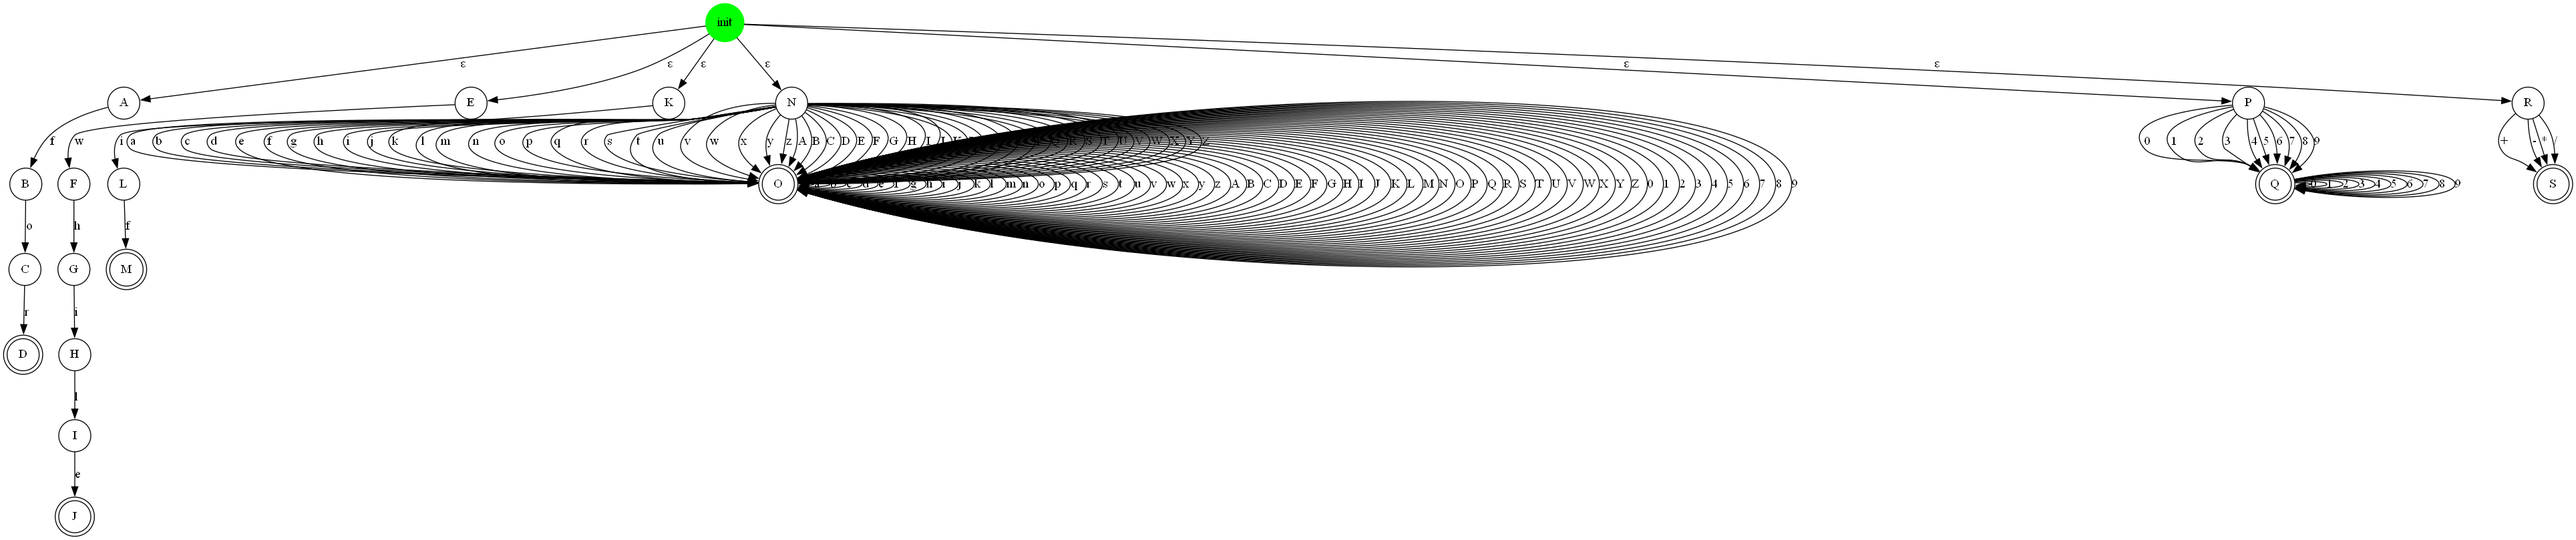
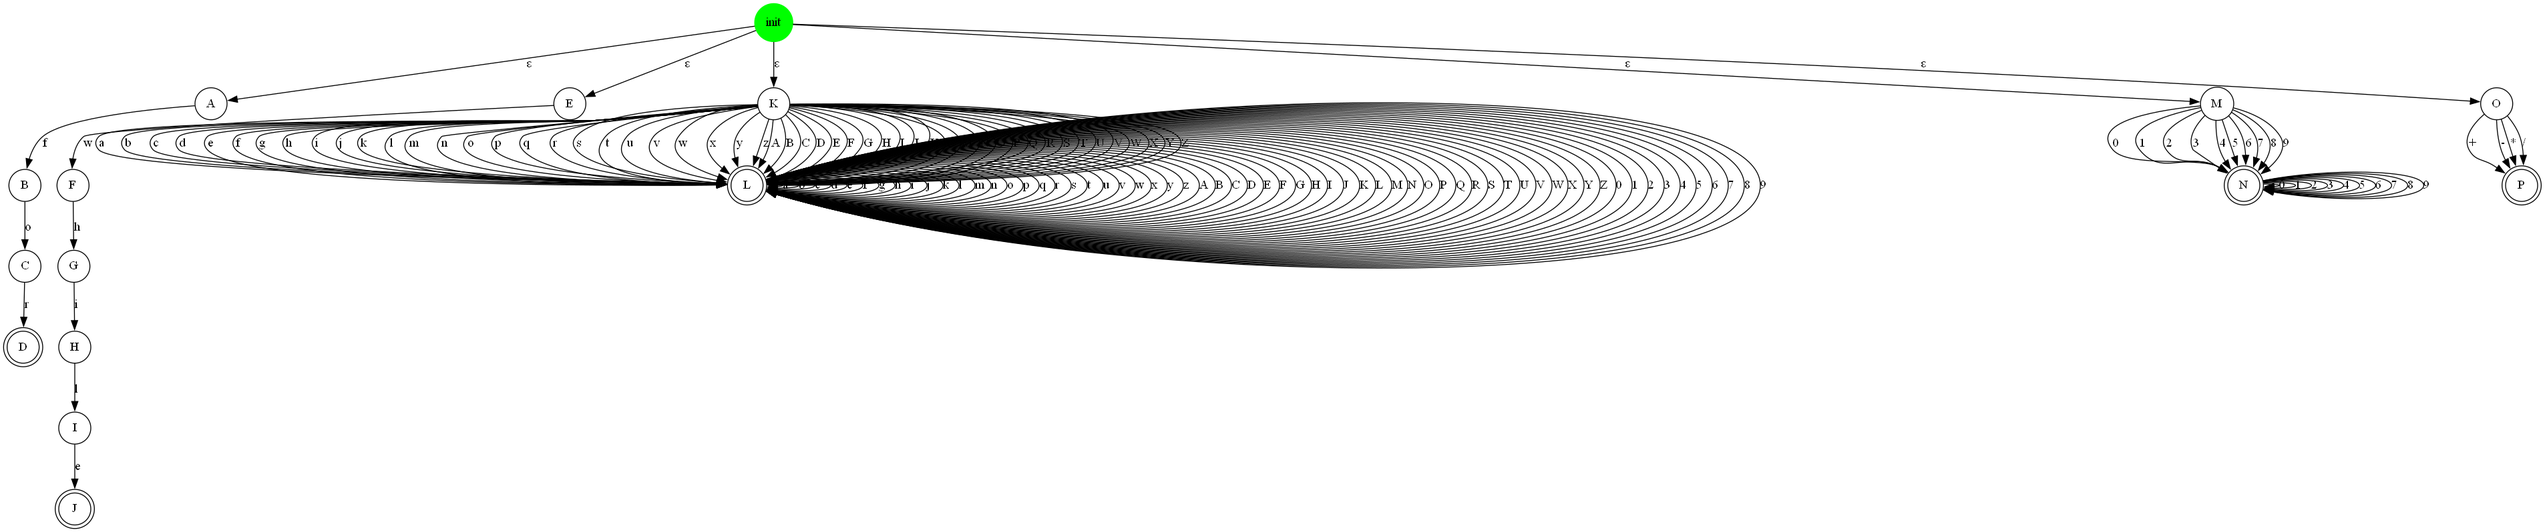
test

diff --git a/sara_compis1_tools/generated.py b/sara_compis1_tools/generated.py
@@ -3,8 +3,8 @@ from sara_compis1_tools.lexEval import LexEval
 from sara_compis1_tools.Error import Error
 import sys
 
-mega = [StateAFD(name='init',transitions={'ε': 'A'},accepting=False,start=True, value=None),StateAFD(name='A',transitions={'f': 'B'},accepting=False,start=False, value=None),StateAFD(name='B',transitions={'o': 'C'},accepting=False,start=False, value=None),StateAFD(name='C',transitions={'r': 'D'},accepting=False,start=False, value=None),StateAFD(name='D',transitions={},accepting=True,start=False, value='print("Palabra reservada: For\\n")'),StateAFD(name='init',transitions={'ε': 'E'},accepting=False,start=True, value=None),StateAFD(name='E',transitions={'w': 'F'},accepting=False,start=False, value=None),StateAFD(name='F',transitions={'h': 'G'},accepting=False,start=False, value=None),StateAFD(name='G',transitions={'i': 'H'},accepting=False,start=False, value=None),StateAFD(name='H',transitions={'l': 'I'},accepting=False,start=False, value=None),StateAFD(name='I',transitions={'e': 'J'},accepting=False,start=False, value=None),StateAFD(name='J',transitions={},accepting=True,start=False, value='print("Palabra reservada: While\\n")'),StateAFD(name='init',transitions={'ε': 'K'},accepting=False,start=True, value=None),StateAFD(name='K',transitions={'i': 'L'},accepting=False,start=False, value=None),StateAFD(name='L',transitions={'f': 'M'},accepting=False,start=False, value=None),StateAFD(name='M',transitions={},accepting=True,start=False, value='print("Palabra reservada: If\\n")'),StateAFD(name='init',transitions={'ε': 'N'},accepting=False,start=True, value=None),StateAFD(name='N',transitions={'a': 'O', 'b': 'O', 'c': 'O', 'd': 'O', 'e': 'O', 'f': 'O', 'g': 'O', 'h': 'O', 'i': 'O', 'j': 'O', 'k': 'O', 'l': 'O', 'm': 'O', 'n': 'O', 'o': 'O', 'p': 'O', 'q': 'O', 'r': 'O', 's': 'O', 't': 'O', 'u': 'O', 'v': 'O', 'w': 'O', 'x': 'O', 'y': 'O', 'z': 'O', 'A': 'O', 'B': 'O', 'C': 'O', 'D': 'O', 'E': 'O', 'F': 'O', 'G': 'O', 'H': 'O', 'I': 'O', 'J': 'O', 'K': 'O', 'L': 'O', 'M': 'O', 'N': 'O', 'O': 'O', 'P': 'O', 'Q': 'O', 'R': 'O', 'S': 'O', 'T': 'O', 'U': 'O', 'V': 'O', 'W': 'O', 'X': 'O', 'Y': 'O', 'Z': 'O'},accepting=False,start=False, value=None),StateAFD(name='O',transitions={'a': 'O', 'b': 'O', 'c': 'O', 'd': 'O', 'e': 'O', 'f': 'O', 'g': 'O', 'h': 'O', 'i': 'O', 'j': 'O', 'k': 'O', 'l': 'O', 'm': 'O', 'n': 'O', 'o': 'O', 'p': 'O', 'q': 'O', 'r': 'O', 's': 'O', 't': 'O', 'u': 'O', 'v': 'O', 'w': 'O', 'x': 'O', 'y': 'O', 'z': 'O', 'A': 'O', 'B': 'O', 'C': 'O', 'D': 'O', 'E': 'O', 'F': 'O', 'G': 'O', 'H': 'O', 'I': 'O', 'J': 'O', 'K': 'O', 'L': 'O', 'M': 'O', 'N': 'O', 'O': 'O', 'P': 'O', 'Q': 'O', 'R': 'O', 'S': 'O', 'T': 'O', 'U': 'O', 'V': 'O', 'W': 'O', 'X': 'O', 'Y': 'O', 'Z': 'O', '0': 'O', '1': 'O', '2': 'O', '3': 'O', '4': 'O', '5': 'O', '6': 'O', '7': 'O', '8': 'O', '9': 'O'},accepting=True,start=False, value='print("Identificador\\n")'),StateAFD(name='init',transitions={'ε': 'P'},accepting=False,start=True, value=None),StateAFD(name='P',transitions={'0': 'Q', '1': 'Q', '2': 'Q', '3': 'Q', '4': 'Q', '5': 'Q', '6': 'Q', '7': 'Q', '8': 'Q', '9': 'Q'},accepting=False,start=False, value=None),StateAFD(name='Q',transitions={'0': 'Q', '1': 'Q', '2': 'Q', '3': 'Q', '4': 'Q', '5': 'Q', '6': 'Q', '7': 'Q', '8': 'Q', '9': 'Q'},accepting=True,start=False, value='print("Numero entero\\n")'),StateAFD(name='init',transitions={'ε': 'R'},accepting=False,start=True, value=None),StateAFD(name='R',transitions={'+': 'S', '-': 'S', '*': 'S', '/': 'S'},accepting=False,start=False, value=None),StateAFD(name='S',transitions={},accepting=True,start=False, value='print("Operador aritmetico\\n")')]
-errors = set()
+mega = [StateAFD(name='init',transitions={'ε': 'A'},accepting=False,start=True, value=None),StateAFD(name='A',transitions={'f': 'B'},accepting=False,start=False, value=None),StateAFD(name='B',transitions={'o': 'C'},accepting=False,start=False, value=None),StateAFD(name='C',transitions={'r': 'D'},accepting=False,start=False, value=None),StateAFD(name='D',transitions={},accepting=True,start=False, value='print("Palabra reservada: For\\n")'),StateAFD(name='init',transitions={'ε': 'E'},accepting=False,start=True, value=None),StateAFD(name='E',transitions={'w': 'F'},accepting=False,start=False, value=None),StateAFD(name='F',transitions={'h': 'G'},accepting=False,start=False, value=None),StateAFD(name='G',transitions={'i': 'H'},accepting=False,start=False, value=None),StateAFD(name='H',transitions={'l': 'I'},accepting=False,start=False, value=None),StateAFD(name='I',transitions={'e': 'J'},accepting=False,start=False, value=None),StateAFD(name='J',transitions={},accepting=True,start=False, value='print("Palabra reservada: While\\n")'),StateAFD(name='init',transitions={'ε': 'K'},accepting=False,start=True, value=None),StateAFD(name='K',transitions={'a': 'L', 'b': 'L', 'c': 'L', 'd': 'L', 'e': 'L', 'f': 'L', 'g': 'L', 'h': 'L', 'i': 'L', 'j': 'L', 'k': 'L', 'l': 'L', 'm': 'L', 'n': 'L', 'o': 'L', 'p': 'L', 'q': 'L', 'r': 'L', 's': 'L', 't': 'L', 'u': 'L', 'v': 'L', 'w': 'L', 'x': 'L', 'y': 'L', 'z': 'L', 'A': 'L', 'B': 'L', 'C': 'L', 'D': 'L', 'E': 'L', 'F': 'L', 'G': 'L', 'H': 'L', 'I': 'L', 'J': 'L', 'K': 'L', 'L': 'L', 'M': 'L', 'N': 'L', 'O': 'L', 'P': 'L', 'Q': 'L', 'R': 'L', 'S': 'L', 'T': 'L', 'U': 'L', 'V': 'L', 'W': 'L', 'X': 'L', 'Y': 'L', 'Z': 'L'},accepting=False,start=False, value=None),StateAFD(name='L',transitions={'a': 'L', 'b': 'L', 'c': 'L', 'd': 'L', 'e': 'L', 'f': 'L', 'g': 'L', 'h': 'L', 'i': 'L', 'j': 'L', 'k': 'L', 'l': 'L', 'm': 'L', 'n': 'L', 'o': 'L', 'p': 'L', 'q': 'L', 'r': 'L', 's': 'L', 't': 'L', 'u': 'L', 'v': 'L', 'w': 'L', 'x': 'L', 'y': 'L', 'z': 'L', 'A': 'L', 'B': 'L', 'C': 'L', 'D': 'L', 'E': 'L', 'F': 'L', 'G': 'L', 'H': 'L', 'I': 'L', 'J': 'L', 'K': 'L', 'L': 'L', 'M': 'L', 'N': 'L', 'O': 'L', 'P': 'L', 'Q': 'L', 'R': 'L', 'S': 'L', 'T': 'L', 'U': 'L', 'V': 'L', 'W': 'L', 'X': 'L', 'Y': 'L', 'Z': 'L', '0': 'L', '1': 'L', '2': 'L', '3': 'L', '4': 'L', '5': 'L', '6': 'L', '7': 'L', '8': 'L', '9': 'L'},accepting=True,start=False, value='print("Identificador\\n")'),StateAFD(name='init',transitions={'ε': 'M'},accepting=False,start=True, value=None),StateAFD(name='M',transitions={'0': 'N', '1': 'N', '2': 'N', '3': 'N', '4': 'N', '5': 'N', '6': 'N', '7': 'N', '8': 'N', '9': 'N'},accepting=False,start=False, value=None),StateAFD(name='N',transitions={'0': 'N', '1': 'N', '2': 'N', '3': 'N', '4': 'N', '5': 'N', '6': 'N', '7': 'N', '8': 'N', '9': 'N'},accepting=True,start=False, value='print("Numero entero\\n")'),StateAFD(name='init',transitions={'ε': 'O'},accepting=False,start=True, value=None),StateAFD(name='O',transitions={'+': 'P', '-': 'P', '*': 'P', '/': 'P'},accepting=False,start=False, value=None),StateAFD(name='P',transitions={},accepting=True,start=False, value='print("Operador aritmetico\\n")')]
+errors = set([Error(line=16, error='Error: Token no definido: palabra_reservada_if en archivo .yal')])
 
 if len(sys.argv) < 2:
 	print('Por favor ingrese el archivo plano')
